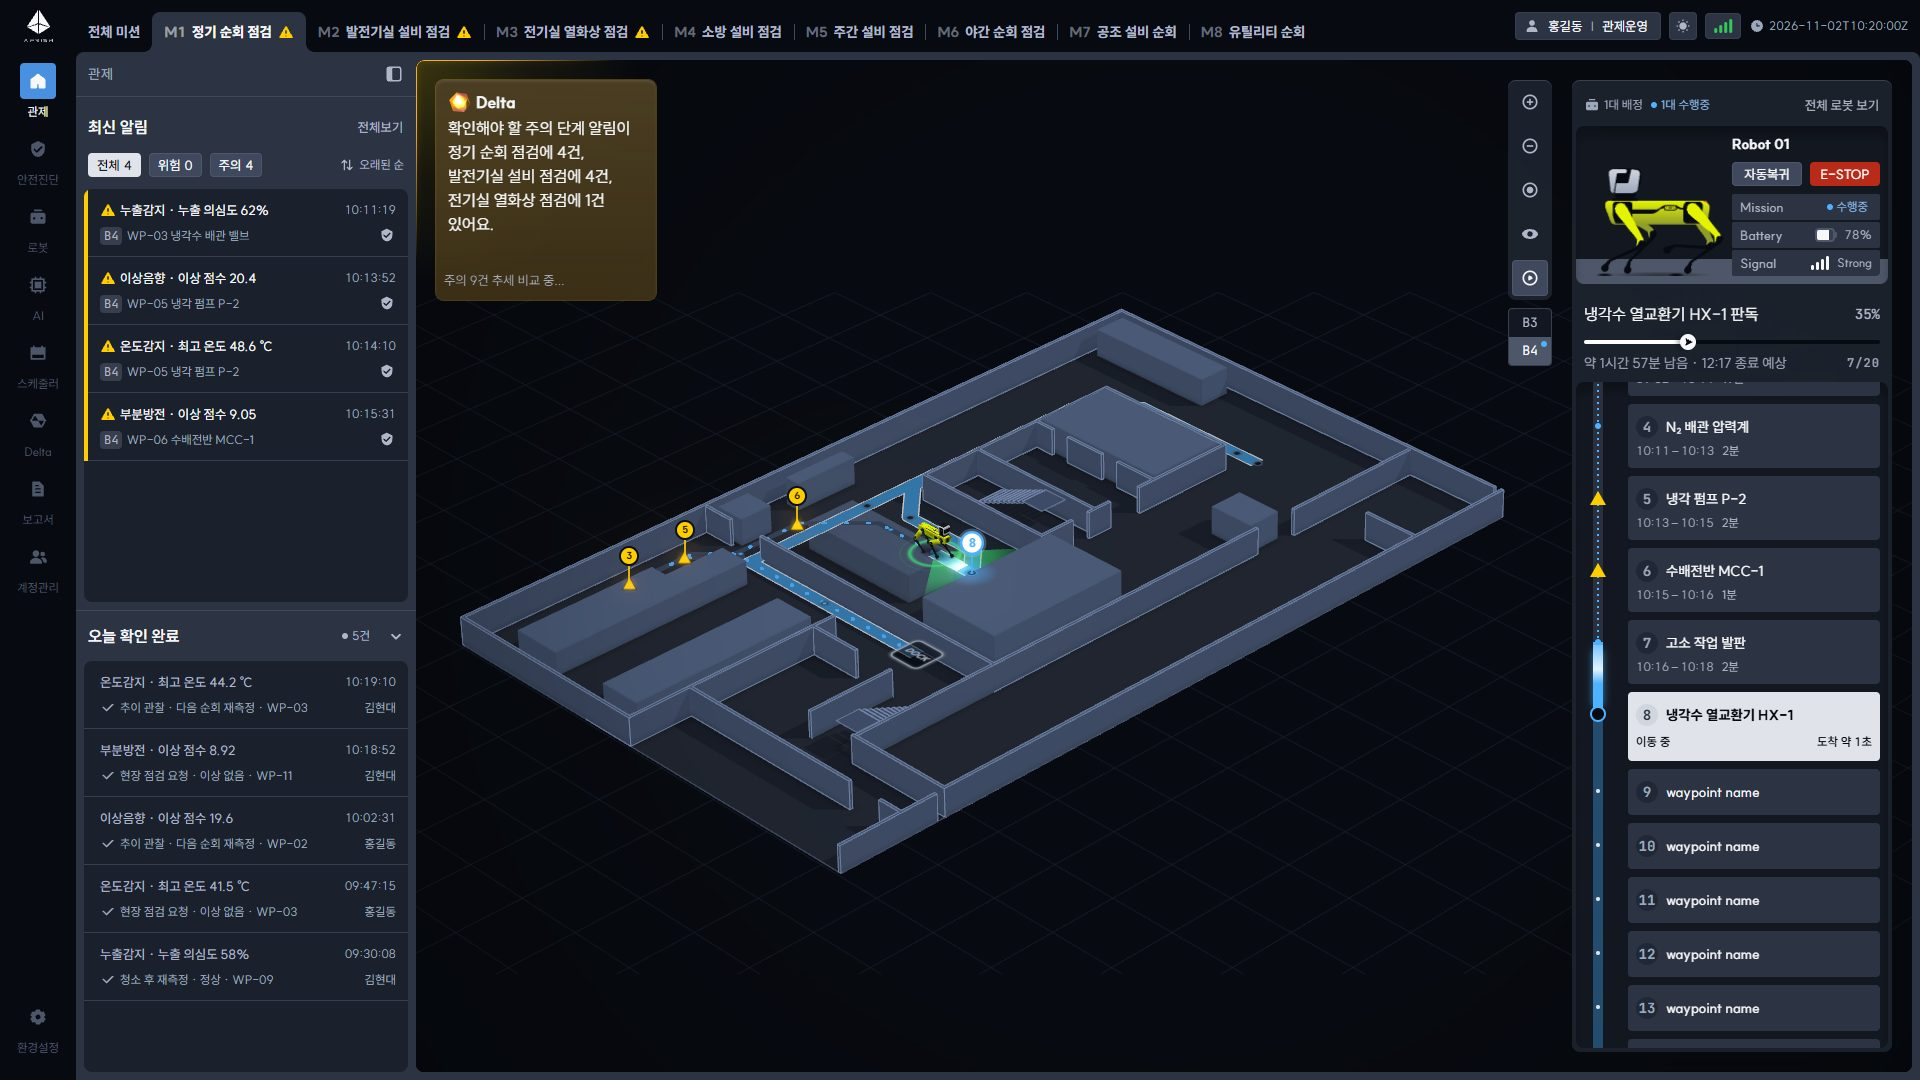
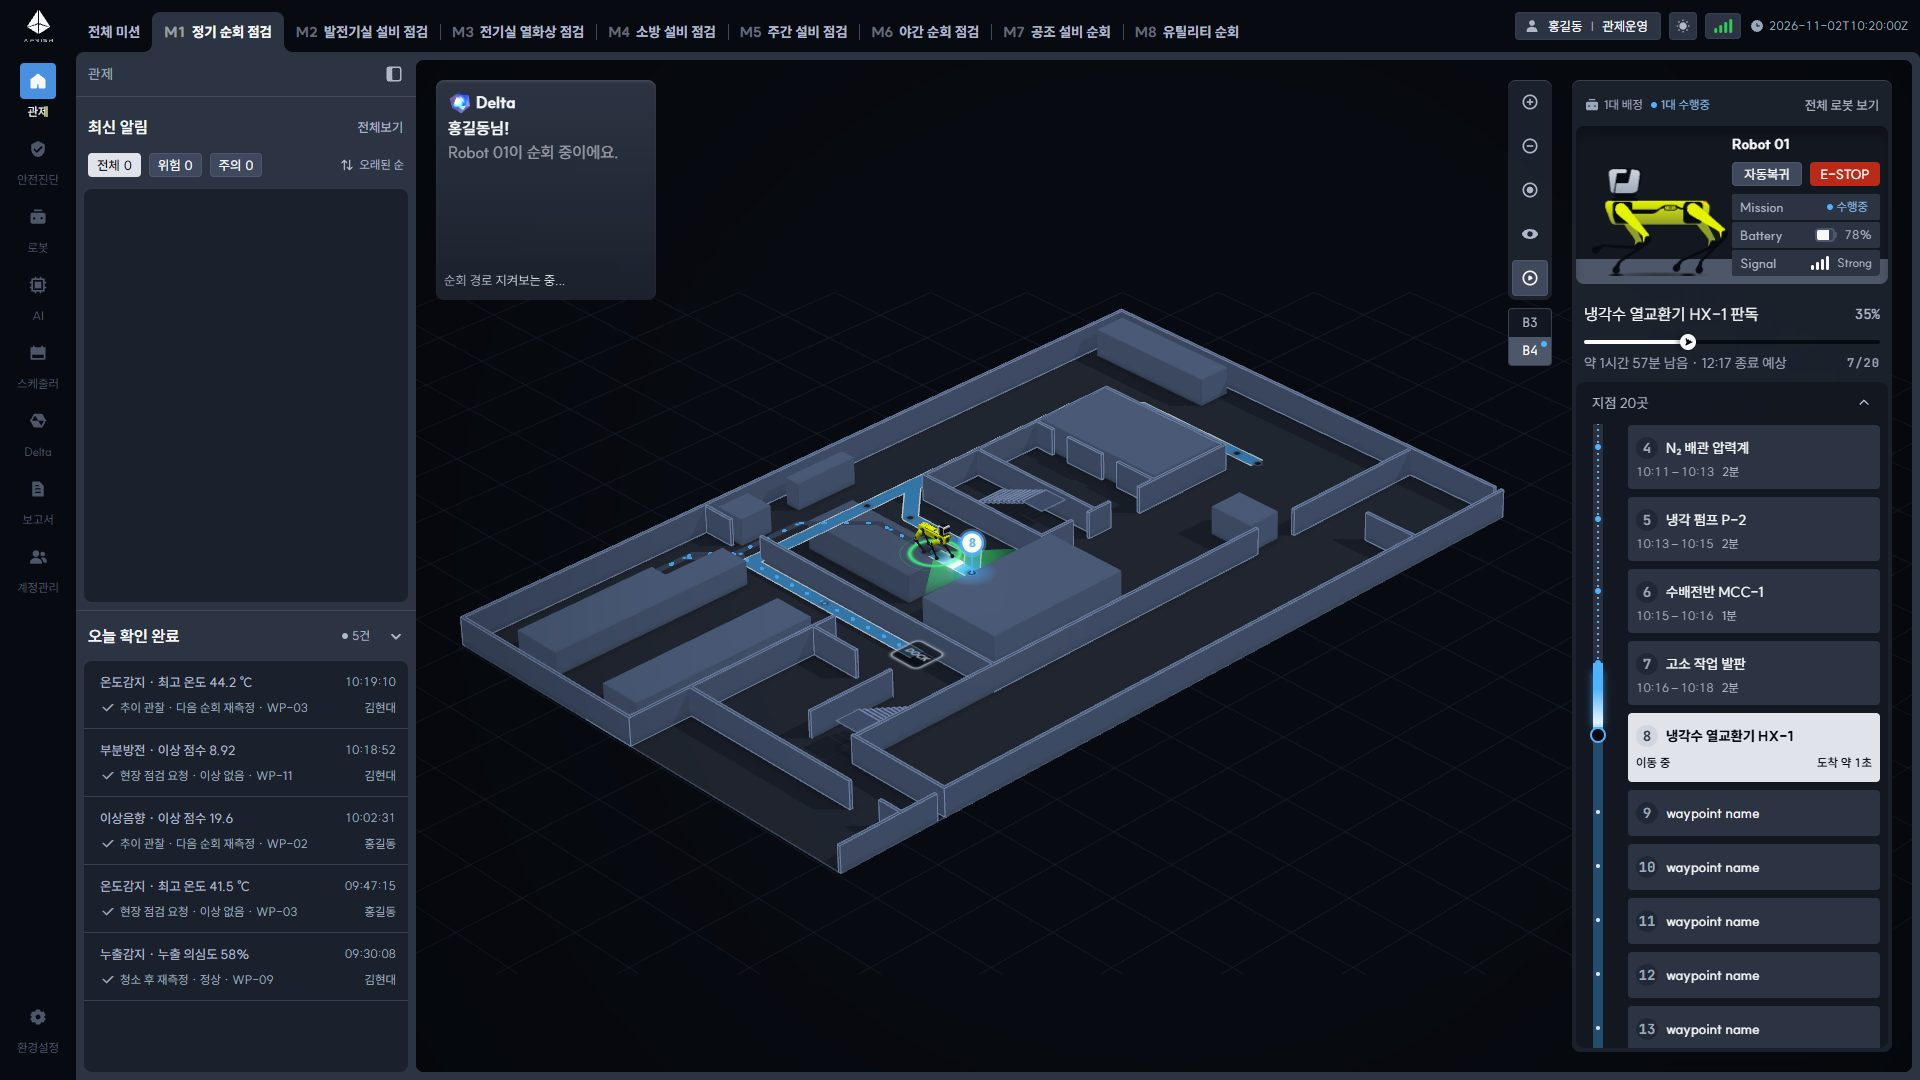
기본 판을 Delta 정상(알림 없음)으로 — 튜토리얼, 시나리오 1, 시나리오 2 시작
- 테스트 화면은 #normal 로 연다. 시나리오 2는 정상 판에서 위험 1건이 새로 들어온다
- 튜토리얼은 최신 알림 단계부터만 주의 알림을 들여와 팝오버를 보여 주고, 끝나면 정상 판으로 다시 연다
- 리포트 클릭 지도의 시나리오 1 배경을 정상 판으로 다시 찍음

diff --git a/index.html b/index.html
@@ -385,13 +385,15 @@
       d.querySelector(".context-panel .ah-sec:not(.done-sec) .ah-list > *");
   }
   var TOUR = [
-    { sel: ".sb-tabs", title: "미션 탭", text: "로봇이 수행 중인 미션이 탭으로 나열됩니다. 삼각형은 그 미션에 위험이나 주의 알림이 있다는 표시입니다." },
+    { sel: ".sb-tabs", title: "미션 탭", text: "로봇이 수행 중인 미션이 탭으로 나열됩니다. 알림이 생기면 미션 이름 옆에 삼각형이 붙습니다." },
     { sel: ".delta3", rect: [436, 80, 296, 972], title: "Delta", text: "알림을 종합해 지금 먼저 볼 것을 알려 주는 AI입니다. 누르면 이렇게 대화창이 열려 원인과 조치를 물어볼 수 있습니다.",
       act: function (d) { var t = d.querySelector(".delta3 [data-ai-toggle]"); if (t && !d.querySelector(".delta3.is-open")) { t.click(); } return function () { return !!d.querySelector(".delta3.is-open"); }; },
       after: function (d) { var t = d.querySelector(".delta3 [data-ai-toggle]"); if (t && d.querySelector(".delta3.is-open")) { t.click(); } } },
     { sel: ".map-panel", title: "설비 배치도", text: "로봇의 위치와 순회 경로, 점검 지점 번호가 표시됩니다. 빨간 핀과 노란 핀은 알림이 난 지점입니다." },
     { sel: ".right-panel", title: "로봇과 미션 진행", text: "위는 로봇 상태와 자동복귀, 긴급정지 버튼, 아래는 미션 진행률과 지점별 순서입니다." },
-    { sel: ".context-panel .ah-sec:not(.done-sec)", title: "최신 알림", text: "로봇이 감지한 알림이 쌓이는 곳입니다. 빨간 삼각형은 위험, 노란 삼각형은 주의입니다." },
+    { sel: ".context-panel .ah-sec:not(.done-sec)", title: "최신 알림", text: "로봇이 이상을 감지하면 이렇게 알림이 쌓입니다. 빨간 삼각형은 위험, 노란 삼각형은 주의입니다.",
+      // 기본 판은 알림이 없다 — 이 단계부터 주의 알림을 들여와 보여 준다(튜토리얼이 끝나면 다시 정상 판으로 연다)
+      act: function (d, w) { w.history.replaceState(w.history.state, "", w.location.pathname + w.location.search + "#warning"); w.dispatchEvent(new w.HashChangeEvent("hashchange")); return function () { return !!firstWarnRow(d); }; } },
     { sel: ".map-alert", title: "알림 상세", text: "알림을 누르면 상세 팝오버가 열립니다. 조치를 골라 [조치 요청]을 누르고, [진단 상세]를 누르면 안전진단 화면에서 더 자세히 봅니다.",
       act: function (d) { realClick(d, firstWarnRow(d)); return function () { var m = d.querySelector(".map-alert"); return !!m && m.getBoundingClientRect().width > 0; }; } },
     { sel: ".sf-main", title: "안전진단 화면", text: "측정값과 영상, 측정 이력을 자세히 보고 오른쪽에서 조치를 요청할 수 있습니다. 왼쪽 메뉴의 안전진단으로도 들어옵니다.",
@@ -617,7 +619,7 @@
     loadApp(function () { setTimeout(startTour, 800); });
   }
 
-  function appUrl() { return APP + "?mission=" + encodeURIComponent(MISSION) + "&floor=B4#warning"; }
+  function appUrl() { return APP + "?mission=" + encodeURIComponent(MISSION) + "&floor=B4#normal"; }
   var onReady = null;
   // 테스트 화면은 늘 다크 모드로 연다 — 관제 화면(theme.js)이 기억해 둔 값을 열기 직전에 다크로(같은 출처라 같은 저장소)
   function loadApp(cb) {
@@ -648,9 +650,9 @@
     w.open = function (url) { log("open", { page: String(url) }); w.location.href = url; return null; };   // 새 창 대신 같은 화면에서
 
     if (/main-v6\.html$/.test(path)) {
-      // 단계는 늘 "주의 쌓인 판" 에서 시작 — 다른 화면에 갔다 오면 주소의 #warning 이 빠진다
+      // 단계는 늘 정상 판(알림 없음, Delta 정상)에서 시작 — 다른 화면에 갔다 오면 주소의 #normal 이 빠진다
       if (!w.location.hash) {
-        w.history.replaceState(w.history.state, "", w.location.pathname + w.location.search + "#warning");
+        w.history.replaceState(w.history.state, "", w.location.pathname + w.location.search + "#normal");
         w.dispatchEvent(new w.HashChangeEvent("hashchange"));
       }
       if (alertPending) { alertPending = false; alertIn = true; injectAlert(ALERT_AFTER); }
@@ -664,7 +666,7 @@
   function injectAlert(after) {
     var w = frame.contentWindow;
     try {
-      w.document.dispatchEvent(new w.CustomEvent("aprism:delta-sim", { detail: { from: "warning", after: after } }));
+      w.document.dispatchEvent(new w.CustomEvent("aprism:delta-sim", { detail: { from: "normal", after: after } }));
       setTimeout(function () {
         try { if (w.document.body.getAttribute("data-level") !== "critical") { w.location.hash = "critical"; } } catch (e) { }
       }, after + 800);
